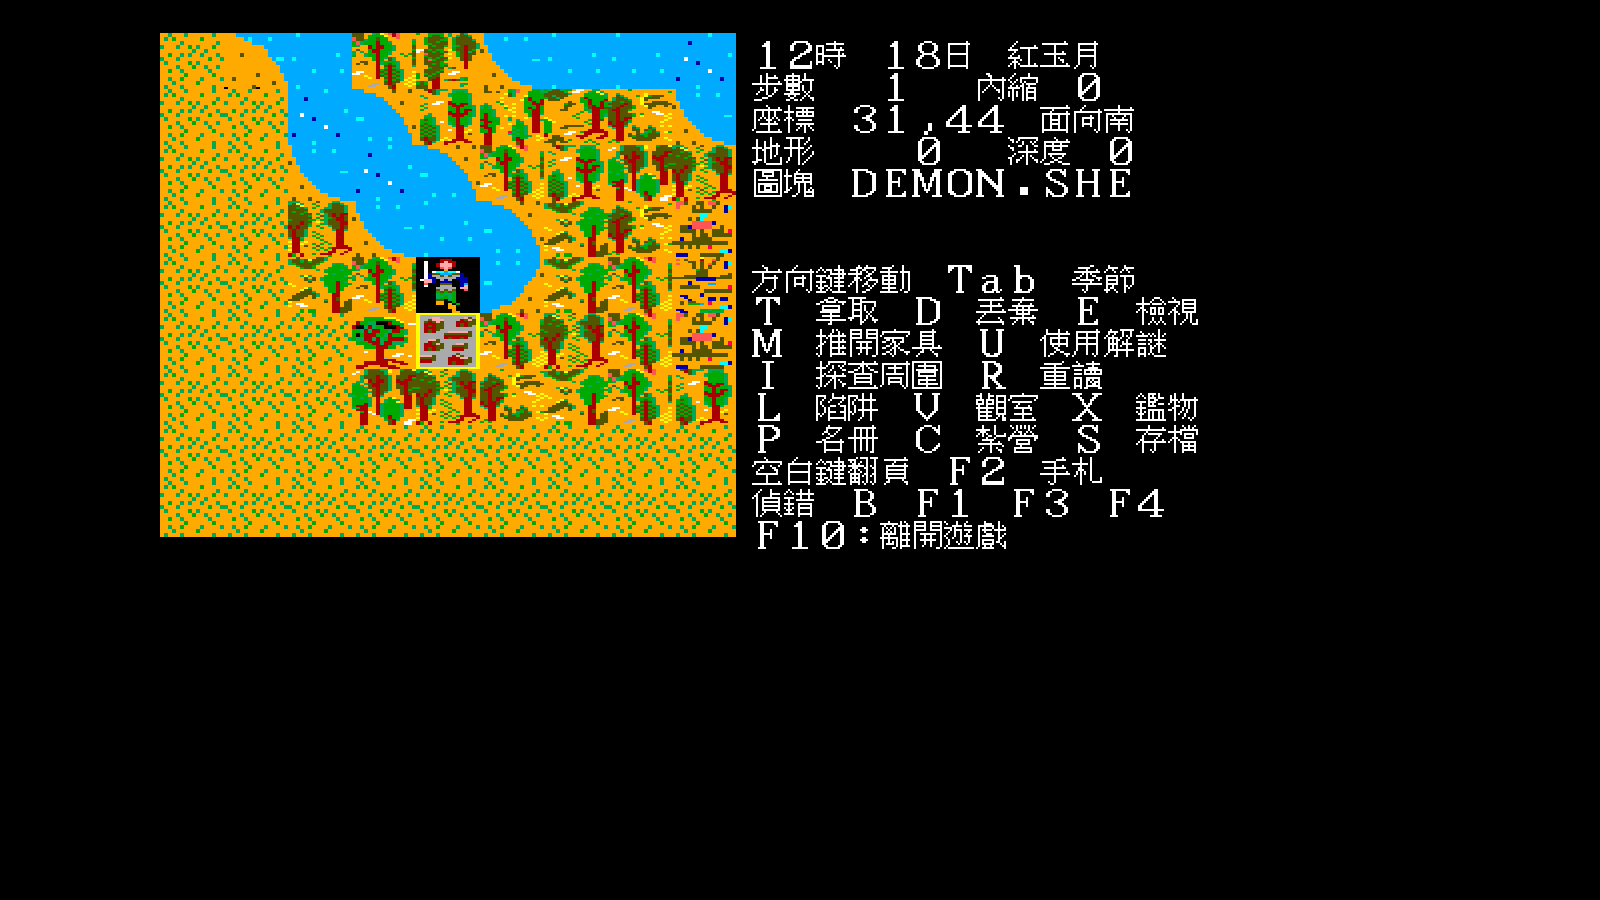
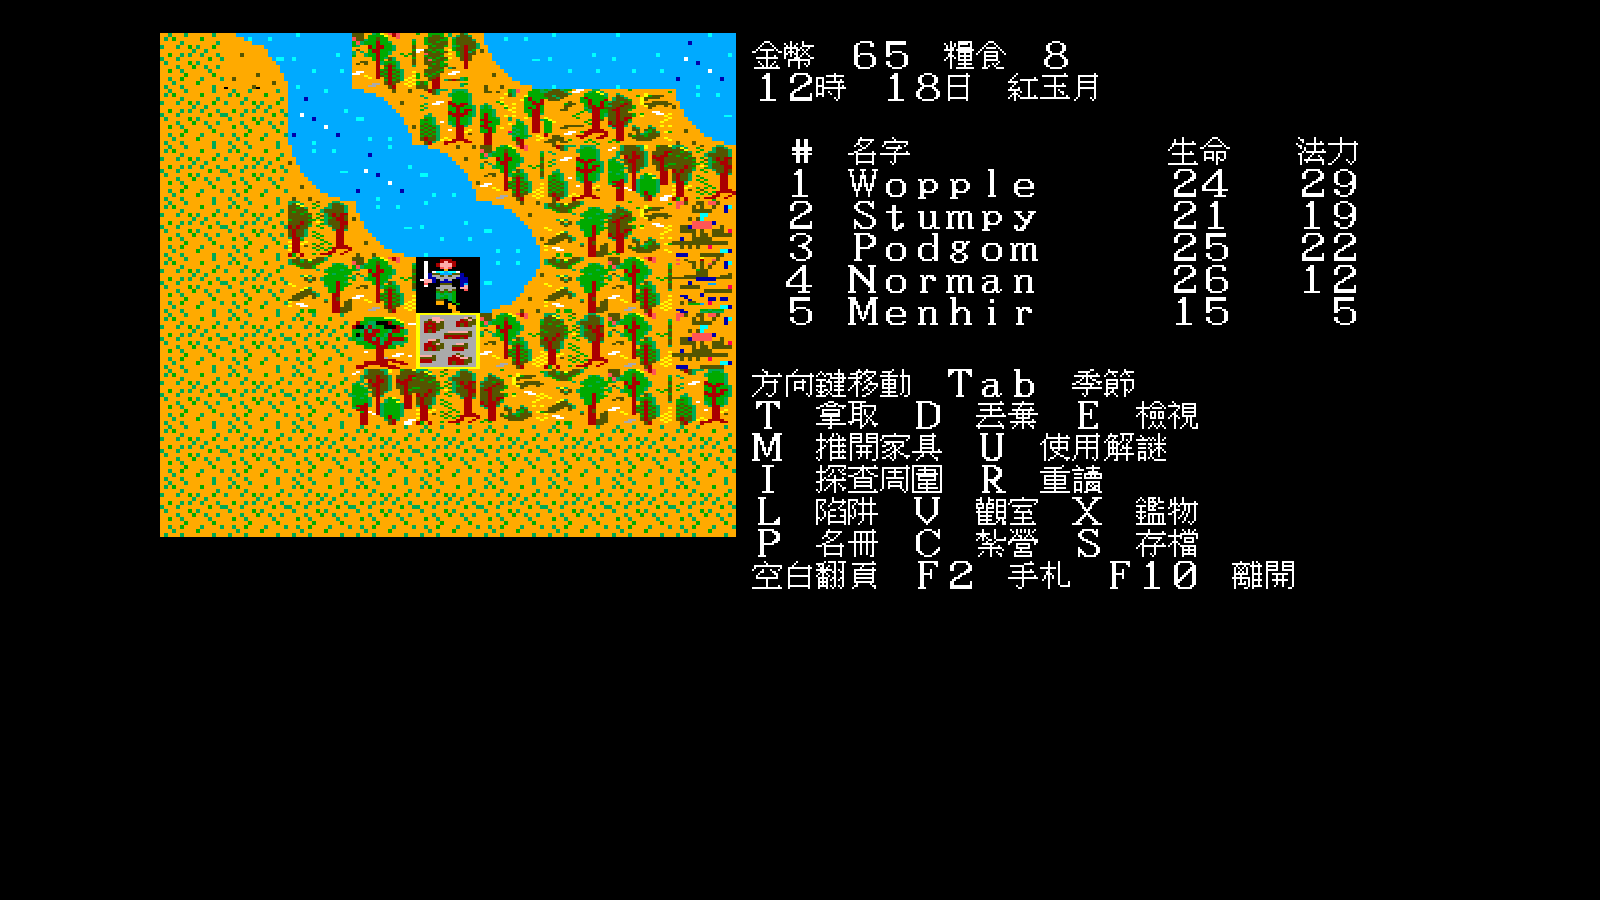
feat(F1): 金幣、糧食、五個人的血量終於在畫面上了
UX 評估的 P1：世界地圖上看不到金幣、看不到糧食、看不到任何一個人的
生命與法力。這是一款會餓死人、會沒錢住店、會在野外被打殘的遊戲，
玩家的決策全靠這幾個數字，而它們要按 P 才看得到 —— 而 P 會把整個
右欄換掉，等於用「看不到別的」換「看得到血量」。

三件同一次改動：

1. 偵錯六欄（步數／內縮／座標／地形／圖塊／偵錯鍵）收進 F12 疊層。
   它們原本常駐在狀態欄最上面、字最大的位置，而「圖塊 DEMON.SHE」
   對玩家沒有任何意義。
2. 空出來的位置放金幣與糧食。
3. 常駐隊伍表，欄位照原版量得的 `#  NAME  HP  SP`。
   **只印目前值不印上限** —— 21 格的欄寬放不下 24/24 29/29
   （名字 8 ＋ 兩組 7 格就 24 格），而原版本來也只印目前值。
   表頭與資料列共用同一組欄寬常數，不各寫一份格式字串。

順帶修掉一個既有的溢出風險：鍵位提示原本接在訊息後面，訊息一長就會
被擠出畫面。改成釘在文字視窗上緣，中間留給訊息；真的撞上就砍訊息
不砍提示（訊息在文字視窗還看得到，提示沒有第二個出處）。

F12 那一版第一次做成「疊加在上面」，按了什麼都沒出現而 log 顯示旗標
有翻 —— 上面那一塊已經用掉大半高度，被 clamp 吃掉了。改成「換掉」
下緣那一塊：要看座標的時候本來就不需要同時看鍵位表。

營地畫面最後一行的「※ 原版紮營選單的 14 項已全部接上（見 docs/re/33）」
是寫給自己看的進度註記，刪掉。狀態的單一真相來源是 CONTEXT.md §7。

抬頭列沒有做成全寬 —— 那要把地圖往下移 16 px，屬於 F3 的版面常數。

README 六張截圖跟著重拍。

Changed region(s): [[0.4688, 0.0311, 0.8125, 0.6533], [0.8125, 0.1556, 0.8438, 0.3422]]

diff --git a/cmd/demonwinter/main.go b/cmd/demonwinter/main.go
@@ -92,6 +92,10 @@ type app struct {
 	// 照抄「畫完就清」會讓標記閃 1/60 秒等於看不見 —— 所以改成
 	// 跟著「下一步」清，玩家看到的行為與原版相同。
 	inspectSpots []game.InspectSpot
+	// debugHUD 開著時，狀態欄多印偵錯欄位（座標、地形、圖塊…）。
+	// **預設關閉** —— 那些對玩家沒有意義，卻佔著版面最上面、字最大的位置。
+	// `F12` 切換，與 F1–F4 同一組「一看就不在原版裡」的鍵。
+	debugHUD bool
 	// reread 是「重讀倒數」，原版 `ds:0x4e2e` 在移動／事件那條路上的用法
 	// （`internal/game/eventgate.go`）。腳下有一格看過的類別 2 事件時
 	// 會被武裝成 1，按 `R` 才讀得回來。
@@ -524,6 +528,10 @@ func (a *app) update() error {
 	// 因為舊註解寫「原版用哪個鍵沒查」。
 	if inpututil.IsKeyJustPressed(ebiten.KeyC) {
 		a.openCamp()
+	}
+	// F12：偵錯疊層。狀態欄多印座標／地形／圖塊那幾行。
+	if inpututil.IsKeyJustPressed(ebiten.KeyF12) {
+		a.debugHUD = !a.debugHUD
 	}
 	// F2：手札。原版沒有這個畫面（那些資料印在紙本手冊上），見 manualui.go。
 	if inpututil.IsKeyJustPressed(ebiten.KeyF2) {
@@ -1282,18 +1290,42 @@ func (a *app) monthName() string {
 	return a.tr.Event(monthSourceFile, m, names[m])
 }
 
+// 常駐狀態欄的鍵位提示。**釘在畫面下緣**（文字視窗上方），不跟著
+// 訊息長度浮動 —— 訊息一長就把提示擠出畫面，而那是溢出型的錯誤，
+// 測試看不到（`rulebook` 的「排版溢出」那一類）。
+var statusKeyHints = []string{
+	// **21 格寬，一行放兩到三個。** 一鍵一行的版本在接上地城道具的
+	// 六個指令之後就溢出畫面了 —— `F10：離開遊戲` 被切掉一半，
+	// 而畫面上看起來只是「最後一行怪怪的」。
+	"方向鍵移動　Tab 季節",
+	"T 拿取 D 丟棄 E 檢視",
+	"M 推開家具 U 使用解謎",
+	"I 探查周圍 R 重讀",
+	"L 陷阱 V 觀室 X 鑑物",
+	"P 名冊 C 紮營 S 存檔",
+	"空白翻頁 F2 手札 F10 離開",
+}
+
+// drawStatus 畫右側常駐狀態欄。
+//
+// 版面由上而下：金幣與糧食 → 日期時辰 → 隊伍表 → 訊息 → （下緣）鍵位提示。
+//
+// **金幣、糧食、五個人的生命與法力是這一欄存在的理由。** 這是一款會餓死人、
+// 會沒錢住店、會在野外被打殘的遊戲，玩家的決策（要不要紮營、要不要回城、
+// 還能不能再打一場）全靠這幾個數字。在這之前它們一個都不在畫面上 ——
+// 要按 `P` 才看得到，而 `P` 會把整個右欄換掉，等於用「看不到別的」
+// 換「看得到血量」。原版把這些放在最顯眼的兩塊（第 0 列的 `Gold/Pro`
+// 與右上角的五人表），我們沒有。
+//
+// 偵錯欄位（步數／內縮／座標／地形／圖塊）收進 `F12` 疊層。
 func (a *app) drawStatus(dst *ebiten.Image) {
 	lines := []string{
+		fmt.Sprintf("金幣 %d　糧食 %d", a.gold(), a.save.Rations),
 		fmt.Sprintf("%2d時 %2d日 %s月", a.clock.Hour(), a.clock.Day(), a.monthName()),
-		// **標「內縮」不標「光照」。** 印的是視窗四邊各縮掉幾格
-		// （原版 `ds:0x4c86`），那是 `4 − 光照`，方向相反 ——
-		// 標成「光照」的話「光照 3」看起來像很亮，其實是只剩中央 3×3。
-		fmt.Sprintf("步數 %2d  內縮 %d", a.clock.Steps(), a.viewInset()),
-		fmt.Sprintf("座標 %2d,%-2d 面向%s", a.party.X(), a.party.Y(), facingName[a.party.Facing()]),
-		fmt.Sprintf("地形 %3d  深度 %d", a.lastTile, a.party.Depth()),
-		fmt.Sprintf("圖塊 %s", a.tileset().Name()),
-		"",
 	}
+	lines = append(lines, a.partyStatusLines()...)
+	lines = append(lines, "")
+
 	// **訊息要斷行，不能截斷。** 其餘幾行是固定格式、寬度可控，
 	// 截斷只會掉尾巴的空白；訊息是變動長度的句子，截斷會把後半句吃掉。
 	//
@@ -1304,23 +1336,29 @@ func (a *app) drawStatus(dst *ebiten.Image) {
 	if a.message != "" {
 		lines = append(lines, textlayout.WrapMixed(a.message, layout.StatusPixels)...)
 	}
-	lines = append(lines, []string{
-		"",
-		// **21 格寬，一行放兩到三個。** 一鍵一行的版本在接上地城道具的
-		// 六個指令之後就溢出畫面了 —— `F10：離開遊戲` 被切掉一半，
-		// 而畫面上看起來只是「最後一行怪怪的」。
-		"方向鍵移動　Tab 季節",
-		"T 拿取 D 丟棄 E 檢視",
-		"M 推開家具 U 使用解謎",
-		// `M 推開家具 U 使用解謎` 那行剛好用滿 21 格，`I` 插不進去，
-		// 所以另起一行。加行之前數過縱向：目前 13 行，離畫布底還有餘裕。
-		"I 探查周圍 R 重讀",
-		"L 陷阱 V 觀室 X 鑑物",
-		"P 名冊 C 紮營 S 存檔",
-		"空白鍵翻頁　F2 手札",
-		"偵錯 B F1 F3 F4",
-		"F10：離開遊戲",
-	}...)
+
+	// 下緣那一塊：平常是鍵位提示，`F12` 時換成偵錯欄位。
+	//
+	// **是「換掉」不是「疊加」** —— 上面那一塊已經用掉大半高度，
+	// 再往上塞就會被下面的 clamp 吃掉（第一版就是這樣，按了 F12
+	// 什麼都沒出現，log 卻顯示旗標有翻）。而且要看座標的時候
+	// 本來就不需要同時看鍵位表。
+	bottom := statusKeyHints
+	if a.debugHUD {
+		bottom = a.debugStatusLines()
+	}
+
+	// 下緣那一塊釘住，中間留給訊息。訊息真的長到撞上它時**砍訊息**，
+	// 不要砍提示 —— 訊息在文字視窗那邊還看得到，提示沒有第二個出處。
+	hintTop := layout.TextBoxTop - len(bottom)*ui.LineHeight - ui.LineHeight/2
+	maxLines := (hintTop - layout.StatusY) / ui.LineHeight
+	if maxLines < 0 {
+		maxLines = 0
+	}
+	if len(lines) > maxLines {
+		lines = lines[:maxLines]
+	}
+
 	// 溢出欄寬的字會畫到畫布外被裁掉 —— 看起來像訊息被砍一半，
 	// 而不是「這行太長」。存檔路徑就踩過這個。
 	// 訊息已經在上面斷過行，這裡的截斷只會碰到固定格式那幾行。
@@ -1328,6 +1366,65 @@ func (a *app) drawStatus(dst *ebiten.Image) {
 		lines[i] = textlayout.TruncateCells(s, layout.StatusCells)
 	}
 	a.font.DrawLines(dst, lines, layout.StatusX, layout.StatusY)
+	a.font.DrawLines(dst, bottom, layout.StatusX, hintTop)
+}
+
+// 常駐隊伍表的欄寬（排版格）。表頭與資料列**共用這組常數** ——
+// 兩邊各寫一份格式字串是欄位歪掉最常見的成因，而歪掉之後看起來
+// 只是「有點不齊」，不像壞掉。
+//
+// 合計 2＋1＋8＋1＋3＋1＋3 ＝ 19 格，`layout.StatusCells` 是 21 ——
+// 刻意留兩格餘裕，貼齊右緣看起來像溢出。
+const (
+	partyColIndex = 2
+	partyColName  = 8
+	partyColHP    = 3
+	partyColSP    = 3
+)
+
+// partyStatusLines 是常駐隊伍表：一人一列，欄位照原版
+// （`#  NAME  HP  SP`，`workplace/dosbox/shots/03-ega-ingame.png` 量得）。
+//
+// **只印目前值不印上限**，與原版一致 —— 21 格的欄寬也放不下
+// `24/24 29/29` 那種寫法（名字 8 ＋ 兩組 7 格就 24 格了）。
+// 要看上限按 `P`。
+//
+// 名字欄先截後補：`nameFieldLen` 是 12，玩家取得出 11 個字的名字，
+// 不截的話整列會往右擠出畫面。
+func (a *app) partyStatusLines() []string {
+	row := func(idx, name, hp, sp string) string {
+		return textlayout.PadCellsLeft(idx, partyColIndex) + " " +
+			textlayout.PadCells(textlayout.TruncateCells(name, partyColName), partyColName) + " " +
+			textlayout.PadCellsLeft(hp, partyColHP) + " " +
+			textlayout.PadCellsLeft(sp, partyColSP)
+	}
+	out := []string{"", row("#", "名字", "生命", "法力")}
+	for i := range a.members {
+		c := &a.members[i]
+		out = append(out, row(
+			strconv.Itoa(i+1), c.Name,
+			strconv.Itoa(c.CurrentHP), strconv.Itoa(c.CurrentSP)))
+	}
+	return out
+}
+
+// debugStatusLines 是 `F12` 才顯示的偵錯欄位。
+//
+// 這幾行原本常駐在狀態欄最上面、字最大的位置，而 `圖塊 DEMON.SHE`
+// 對玩家沒有任何意義 —— 它們讓畫面看起來像工具而不像遊戲。
+func (a *app) debugStatusLines() []string {
+	return []string{
+		"── 偵錯　F12 收起",
+		// **標「內縮」不標「光照」。** 印的是視窗四邊各縮掉幾格
+		// （原版 `ds:0x4c86`），那是 `4 − 光照`，方向相反 ——
+		// 標成「光照」的話「光照 3」看起來像很亮，其實是只剩中央 3×3。
+		fmt.Sprintf("步數 %2d  內縮 %d", a.clock.Steps(), a.viewInset()),
+		fmt.Sprintf("座標 %2d,%-2d 面向%s", a.party.X(), a.party.Y(), facingName[a.party.Facing()]),
+		fmt.Sprintf("地形 %3d  深度 %d", a.lastTile, a.party.Depth()),
+		fmt.Sprintf("圖塊 %s", a.tileset().Name()),
+		"B 開打 F1 建角 F3 進城",
+		"F4 商隊",
+	}
 }
 
 var raceName = []string{"人類", "精靈", "矮人", "黑暗精靈", "巨魔"}

diff --git a/cmd/demonwinter/campui.go b/cmd/demonwinter/campui.go
@@ -359,7 +359,9 @@ func (a *app) drawCamp(dst *ebiten.Image) {
 		}
 		line("")
 	}
-	line("※ 原版紮營選單的 14 項已全部接上（見 docs/re/33）")
+	// ⚠ 這裡原本有一行「※ 原版紮營選單的 14 項已全部接上（見 docs/re/33）」。
+	// 那是寫給自己看的進度註記，不是給玩家的資訊 —— 已移除。
+	// 進度狀態的單一真相來源是 `CONTEXT.md` §7，不是遊戲畫面。
 }
 
 func (a *app) drawEquipPicker(line func(string)) {

diff --git a/CONTEXT.md b/CONTEXT.md
@@ -3629,7 +3629,7 @@ SDD 的規格階段結束（九份 spec 全 READY），引擎 M1–M5 完成，
 |---|---|---|
 | ~~F0~~ | 截圖流程固定 | **已做**：`tools/readme_shots.sh`，六張各自寫明要展示什麼，支援單張重拍 |
 | ~~F-字型~~ | 中英混排一粗一細 | **已做**：`-ascii eten` 走倚天全形英數（只換字母與數字，標點維持原版字模 —— 全形 `．` 是置中的點）。格寬不變，`PadCells` 系列一行都沒動 |
-| **F1** | 偵錯欄下架 ＋ 抬頭列（金幣／糧食／時辰）＋ 右上常駐隊伍表 | **下一個**。三件同一次改動：偵錯欄挪走，空出來的位置給隊伍表。目前世界畫面上**看不到任何人的血量、也看不到金幣與糧食** |
+| ~~**F1**~~ | 偵錯欄下架 ＋ 金幣／糧食 ＋ 常駐隊伍表 | **已做**。偵錯六欄（步數／內縮／座標／地形／圖塊／偵錯鍵）收進 `F12` 疊層，空出來的位置給金幣、糧食與五人的生命法力。隊伍表欄位照原版 `# NAME HP SP`（**只印目前值不印上限** —— 21 格放不下 `24/24 29/29`，原版也只印目前值）。<br>順帶：鍵位提示改成**釘在下緣**，訊息長度不再把它擠出畫面；營地那行寫給自己看的進度註記刪掉。<br>⚠ 抬頭列**沒有做成全寬**：全寬要把地圖往下移 16 px，那是 F3 的版面常數。金幣糧食先放在右欄第一行 |
 | F2 | 地圖／戰場加雙線白框 ＋ 拿掉戰場格線 ＋ EGA 配色分工 ＋ 欄位右靠 | 框不只是好看：現在視野內縮時黑格與背景同色，**邊界讀不出來** |
 | F3 | 版面常數重排 ＋ 訊息移到地圖框正下方 | 目前下緣 35%（營地 53%、施法 67%）長期空白 |
 | F4 | 紅底選單元件，取代鍵位提示塊 | 四個畫面共用一支；連帶把「現在能不能按」這個訊息做回來 |
